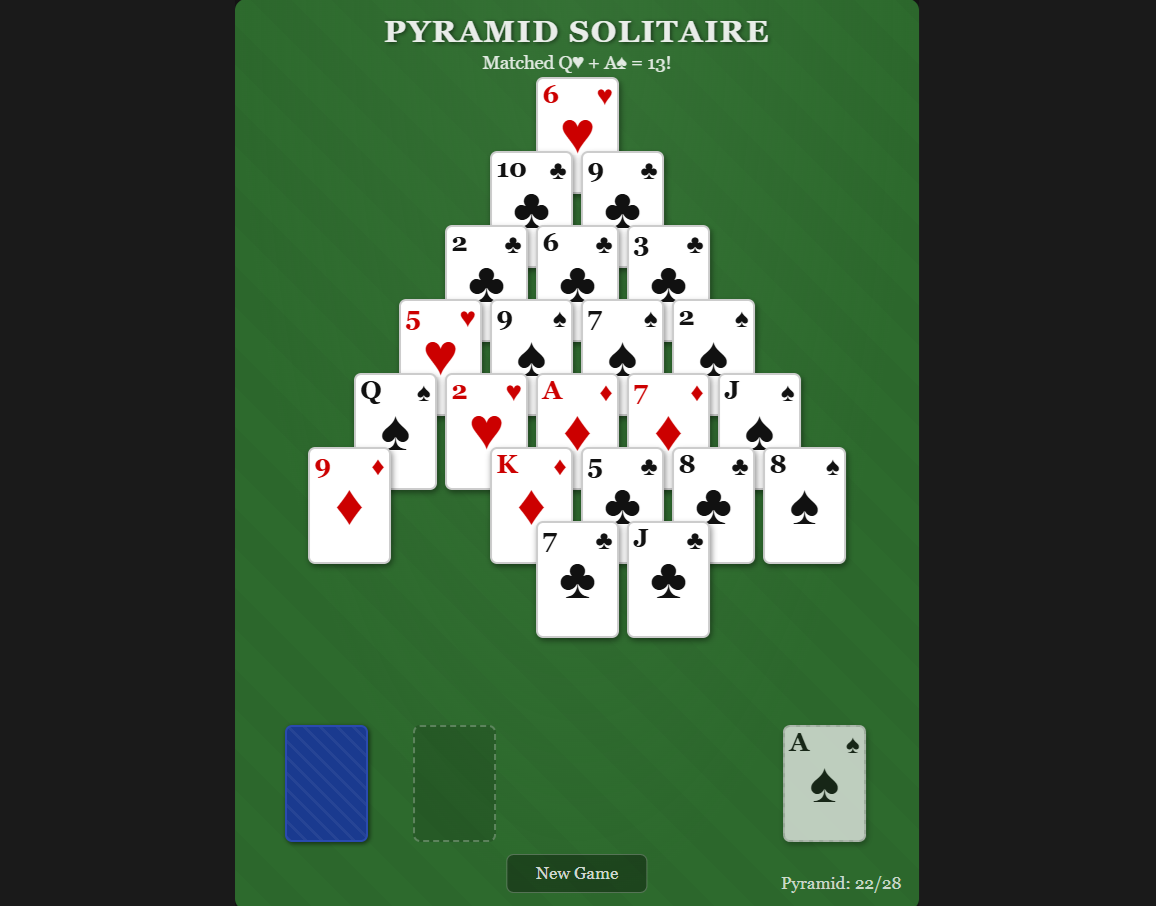
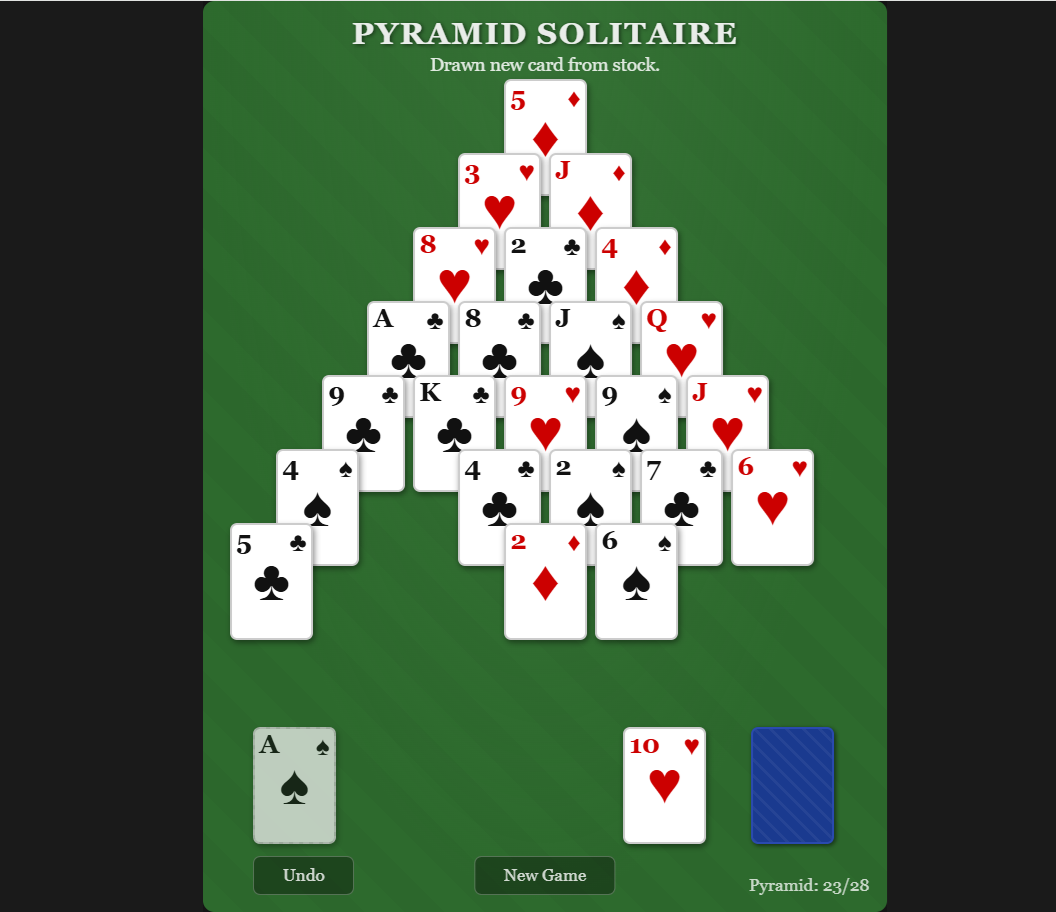
Updated Pyramid Solitaire

Changed region(s): [[0.1875, 0.0, 0.8438, 1.0]]

diff --git a/projects/pyramid-solitaire/index.html b/projects/pyramid-solitaire/index.html
@@ -9,6 +9,7 @@
   * { margin: 0; padding: 0; box-sizing: border-box; touch-action: manipulation; }
 
   :root {
+    --scale: 1;
     --font-rank: 18px;
     --font-suit: 39px;
     --font-ui-sm: 12px;
@@ -18,8 +19,9 @@
     --font-ui-h2: 20px;
     --font-ui-h1: 30px;
     --font-ui-btn: 16px;
-    --font-stock: 28px;
+    --font-stock: 36px;
     --font-bounce: 26px;
+    --font-debug: 11px;
   }
 
   body {
@@ -166,13 +168,13 @@
     position: absolute;
     top: 2px;
     right: 3px;
-    font-size: 18px;
+    font-size: var(--font-rank);
     font-weight: bold;
     font-family: Georgia, serif;
   }
 
   .card-rank {
-    font-size: 18px;
+    font-size: var(--font-rank);
     font-weight: bold;
     font-family: Georgia, serif;
   }
@@ -182,7 +184,7 @@
     top: 50%;
     left: 50%;
     transform: translate(-50%, -50%);
-    font-size: 39px;
+    font-size: var(--font-suit);
     line-height: 1;
   }
 
@@ -290,6 +292,35 @@
   }
 
   /* ── FOOTER CONTROLS ── */
+  #btn-undo {
+    position: absolute;
+    bottom: 12px;
+    left: 35px;
+    background: rgba(0,0,0,0.35);
+    color: rgba(255,255,255,0.8);
+    border: 1px solid rgba(255,255,255,0.25);
+    border-radius: 5px;
+    padding: 6px 20px;
+    font-size: var(--font-ui-sm);
+    font-family: Georgia, serif;
+    cursor: pointer;
+    transition: background 0.2s, color 0.2s;
+    z-index: 100;
+  }
+
+  #btn-undo:hover {
+    background: rgba(0,0,0,0.55);
+    color: #fff;
+  }
+
+  #btn-undo:disabled {
+    opacity: 0.35;
+    cursor: default;
+    background: rgba(0,0,0,0.2);
+    color: rgba(255,255,255,0.3);
+    border-color: rgba(255,255,255,0.1);
+  }
+
   #btn-new {
     position: absolute;
     bottom: 12px;
@@ -393,6 +424,7 @@
       </div>
     </div>
 
+    <button id="btn-undo">Undo</button>
     <button id="btn-new">New Game</button>
     <div id="cards-left-display">Pyramid: 28/28</div>
   </div>
@@ -422,6 +454,7 @@ let waste = [];   // Cards in waste pile
 let discarded = []; // Removed cards
 let selectedCard = null; // Currently selected card object { source: 'pyramid'|'waste', index/card }
 let gameEnded = false;
+let undoStack = [];
 
 // ═══════════════════════════════════════════════════════
 //  DECK & SETUP FUNCTIONS
@@ -453,6 +486,40 @@ function isRed(suit) { return RED_SUITS.includes(suit); }
 function cardColor(suit) { return isRed(suit) ? 'red' : 'black'; }
 
 // ═══════════════════════════════════════════════════════
+//  SUPPORT UNDO
+// ═══════════════════════════════════════════════════════
+function saveState() {
+  undoStack.push({
+    pyramid: pyramid.map(c => ({ ...c })),
+    stock: stock.map(c => ({ ...c })),
+    waste: waste.map(c => ({ ...c })),
+    discarded: discarded.map(c => ({ ...c }))
+  });
+  updateUndoButton();
+}
+
+function updateUndoButton() {
+  const btnUndo = document.getElementById('btn-undo');
+  if (btnUndo) {
+    btnUndo.disabled = (undoStack.length === 0 || gameEnded);
+  }
+}
+
+function undo() {
+  if (undoStack.length === 0 || gameEnded) return;
+  
+  const prevState = undoStack.pop();
+  pyramid = prevState.pyramid;
+  stock = prevState.stock;
+  waste = prevState.waste;
+  discarded = prevState.discarded;
+  
+  deselectAll();
+  document.getElementById('game-status').textContent = "Undid last move.";
+  render();
+}
+
+// ═══════════════════════════════════════════════════════
 //  POSITIONS COMPUTATION
 // ═══════════════════════════════════════════════════════
 function getPyramidPos(row, col) {
@@ -469,9 +536,9 @@ function getPyramidPos(row, col) {
   };
 }
 
-const STOCK_POS = { x: 35, y: 510 };
-const WASTE_POS = { x: 125, y: 510 };
-const DISCARD_POS = { x: 385, y: 510 };
+const DISCARD_POS = { x: 35, y: 510 };
+const WASTE_POS = { x: 295, y: 510 };
+const STOCK_POS = { x: 385, y: 510 };
 
 function newGame() {
   pyramid = [];
@@ -480,6 +547,7 @@ function newGame() {
   discarded = [];
   selectedCard = null;
   gameEnded = false;
+  undoStack = [];
 
   document.getElementById('win-screen').classList.remove('show');
   document.getElementById('confirm-overlay').classList.remove('show');
@@ -537,6 +605,7 @@ function getPyramidCardsRemaining() {
 // ═══════════════════════════════════════════════════════
 function drawCard() {
   if (gameEnded) return;
+  saveState();
   deselectAll();
 
   if (stock.length > 0) {
@@ -568,6 +637,7 @@ function handleCardClick(cardObj, source, el) {
 
   // Single click King removal (King = 13)
   if (cardVal === 13) {
+    saveState();
     removeCard(cardObj, source);
     deselectAll();
     document.getElementById('game-status').textContent = "Removed King!";
@@ -595,6 +665,7 @@ function handleCardClick(cardObj, source, el) {
   const sum = selectedCard.cardObj.value + cardVal;
   if (sum === 13) {
     // Valid match! Remove both cards
+    saveState();
     const card1 = selectedCard.cardObj;
     const source1 = selectedCard.source;
 
@@ -633,6 +704,7 @@ function removeCard(cardObj, source) {
 function checkWinCondition() {
   if (getPyramidCardsRemaining() === 0) {
     gameEnded = true;
+    updateUndoButton();
     document.getElementById('game-status').textContent = "🎉 Pyramid Cleared!";
     setTimeout(() => {
       document.getElementById('win-screen').classList.add('show');
@@ -765,6 +837,8 @@ function render() {
     canvas.appendChild(discardEl);
   }
 
+  updateUndoButton();
+
   // Update Footer Counters
   const remainingPyramid = getPyramidCardsRemaining();
   document.getElementById('cards-left-display').textContent = `Pyramid: ${remainingPyramid}/28`;
@@ -805,6 +879,7 @@ function clearBounceCards() {
 // ═══════════════════════════════════════════════════════
 //  UI BUTTON CONTROLS
 // ═══════════════════════════════════════════════════════
+document.getElementById('btn-undo').addEventListener('click', undo);
 document.getElementById('btn-win-new').addEventListener('click', newGame);
 
 const confirmOverlay = document.getElementById('confirm-overlay');
@@ -827,21 +902,41 @@ document.getElementById('btn-confirm-no').addEventListener('click', () => {
 });
 
 // ═══════════════════════════════════════════════════════
-//  RESPONSIVE SCALING
+//  RESPONSIVE SCALING (Supports iPad, Mobile & Desktop)
 // ═══════════════════════════════════════════════════════
 function applyScale() {
-  const vw = window.innerWidth;
-  const vh = window.innerHeight;
-
-  // Canvas dimensions: 480 x 640
+  const vw = window.visualViewport ? window.visualViewport.width : window.innerWidth;
+  const vh = window.visualViewport ? window.visualViewport.height : window.innerHeight;
+  
   const scaleX = vw / 480;
   const scaleY = vh / 640;
   const scale = Math.min(scaleX, scaleY);
-
+  
   const wrapper = document.getElementById('game-wrapper');
   wrapper.style.zoom = scale;
+
+  // Explicitly scale fonts on WebKit/iPadOS Safari where CSS zoom does not resize text
+  const isWebKit = /^((?!chrome|android).)*safari/i.test(navigator.userAgent) || 
+                   (navigator.maxTouchPoints && navigator.maxTouchPoints > 2);
+  const fontScale = isWebKit ? scale : 1;
+
+  document.documentElement.style.setProperty('--font-rank',   (18 * fontScale) + 'px');
+  document.documentElement.style.setProperty('--font-suit',   (39 * fontScale) + 'px');
+  document.documentElement.style.setProperty('--font-ui-sm',  (12 * fontScale) + 'px');
+  document.documentElement.style.setProperty('--font-ui-md',  (14 * fontScale) + 'px');
+  document.documentElement.style.setProperty('--font-ui-lg',  (15 * fontScale) + 'px');
+  document.documentElement.style.setProperty('--font-ui-xl',  (16 * fontScale) + 'px');
+  document.documentElement.style.setProperty('--font-ui-h2',  (20 * fontScale) + 'px');
+  document.documentElement.style.setProperty('--font-ui-h1',  (30 * fontScale) + 'px');
+  document.documentElement.style.setProperty('--font-ui-btn', (16 * fontScale) + 'px');
+  document.documentElement.style.setProperty('--font-stock',  (36 * fontScale) + 'px');
+  document.documentElement.style.setProperty('--font-bounce', (26 * fontScale) + 'px');
+  document.documentElement.style.setProperty('--font-debug',  (11 * fontScale) + 'px');
 }
 
+if (window.visualViewport) {
+  window.visualViewport.addEventListener('resize', applyScale);
+}
 window.addEventListener('resize', applyScale);
 window.addEventListener('orientationchange', applyScale);
 applyScale();

diff --git a/projects/pyramid-solitaire/README.html b/projects/pyramid-solitaire/README.html
@@ -30,11 +30,18 @@ body{
 <p>A classic version of the solitaire game called Pyramid. To win, remove all cards from the starting pyramid.</p>
 <h2 id="description">Description</h2>
 <p>This is a standard version of the Pyramid solitaire game. Cards are stack in rows, with the first row having one card. The second row has two cards - it partially covers the first row. This continues, with the seventh row having seven cards on top.</p>
-<p>Cards can be removed by clicking two available cards that total 13. An ace is worth 1, a Jack is worth 11, a Queen is worth 12, a King is worth 13. For a King, you can click those alone without another card. You can click the uncovered cards in the pyramid. There is also the deck of cards in the lower-left corner. You can draw through those to get a card to click to a total 13.</p>
-<p>The game is won when all of the pyramid has been removed.</p>
-<h2 id="from-release-1-build-01-01-on-9-8-26-">From Release #1 (Build 01.01 on 9/8/26)</h2>
+<p>Cards can be removed by clicking two available cards that total 13. An ace is worth 1, a Jack is worth 11, a Queen is worth 12, a King is worth 13. For a King, you can click those alone without another card. You can click the uncovered cards in the pyramid. There is also the deck of cards in the lower-left corner. You can draw through those to get a card to click to a total 13. The game is won when all of the pyramid has been removed.</p>
+<p>There is an Undo button on the lower-left to go back to the previous move. It can be used to rewind all the way to the beginning. There is a New Game button in the lower-center if you&#39;d like to start another game.</p>
+<h2 id="mobile">Mobile</h2>
+<p>The game works well on a tablet. The game also works on a mobile phone, though the numbers and letters are very small.</p>
+<h2 id="from-release-1-build-01-01-on-10-8-26-">From Release #1 (Build 01.01 on 10/8/26)</h2>
 <ul>
 <li>Initial version</li>
+</ul>
+<h2 id="from-release-2-build-02-02-on-10-15-26-">From Release #2 (Build 02.02 on 10/15/26)</h2>
+<ul>
+<li>Added Undo button</li>
+<li>Fixed display problems on tablet and mobile</li>
 </ul>
 
 
